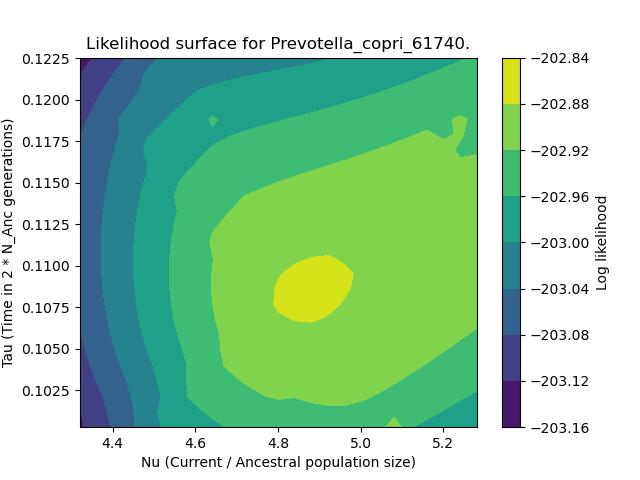
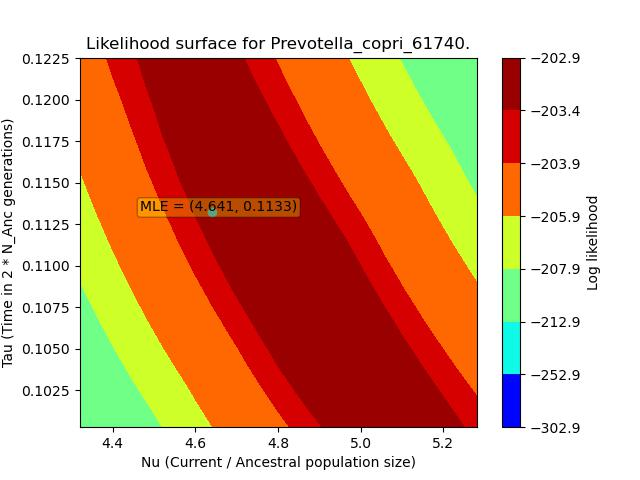
Oscillibacter

diff --git a/Scripts/plot_likelihood.py b/Scripts/plot_likelihood.py
@@ -473,12 +473,12 @@ class PlotLikelihood():
                 # y_range = numpy.linspace(y  * 0.90, y * 1.1, npts)
 
                 # E. eligens
-                x_range = numpy.linspace(x * 0.7, x * 1.3, npts)
-                y_range = numpy.linspace(y * 0.90, y * 1.1, npts)
+                # x_range = numpy.linspace(x * 0.7, x * 1.3, npts)
+                # y_range = numpy.linspace(y * 0.90, y * 1.1, npts)
                 
                 # Oscillibacter species
-                # x_range = numpy.linspace(x * 0.90, x * 1.1, npts)
-                # y_range = numpy.linspace(y * 0.90, y * 1.1, npts)
+                x_range = numpy.linspace(x * 0.90, x * 1.1, npts)
+                y_range = numpy.linspace(y * 0.90, y * 1.1, npts)
 
                 X, Y = numpy.meshgrid(x_range, y_range)
 
